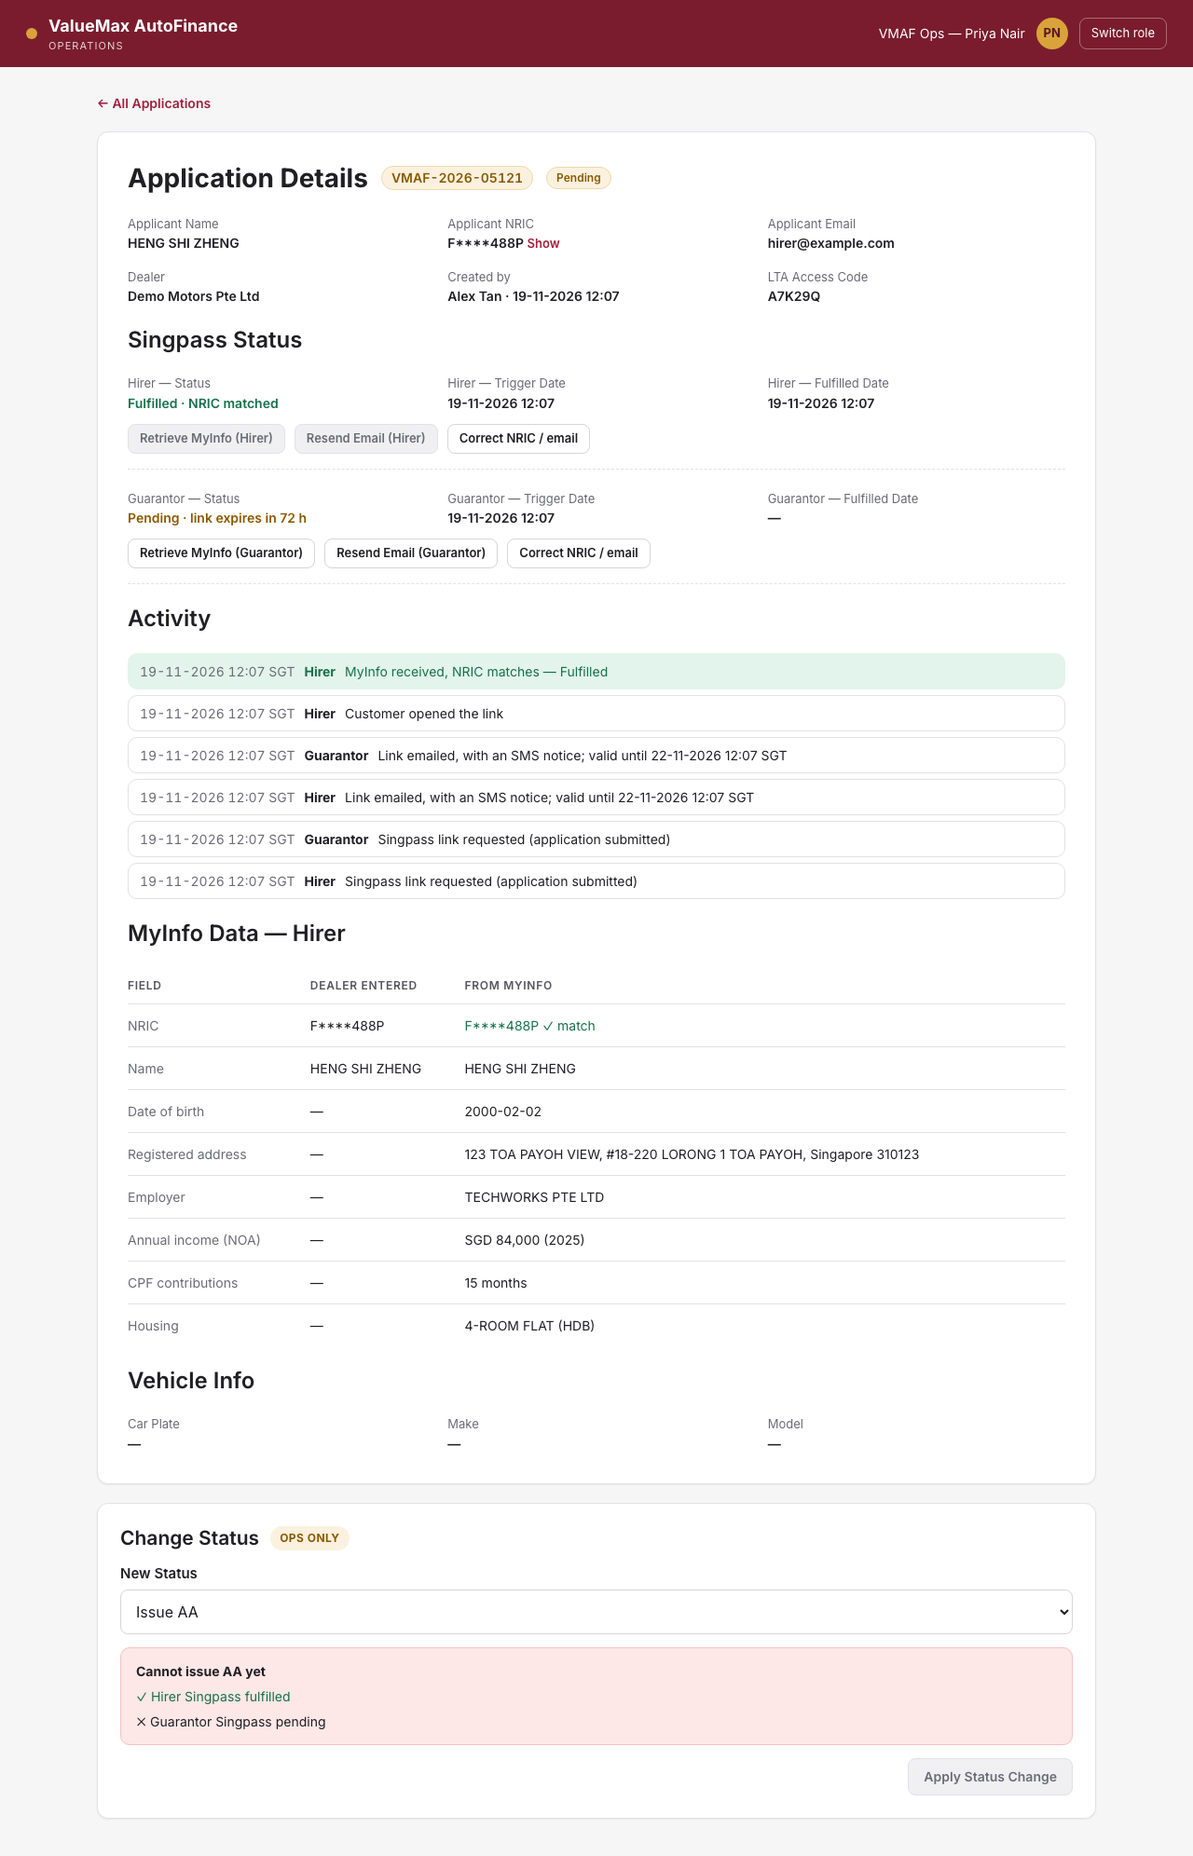
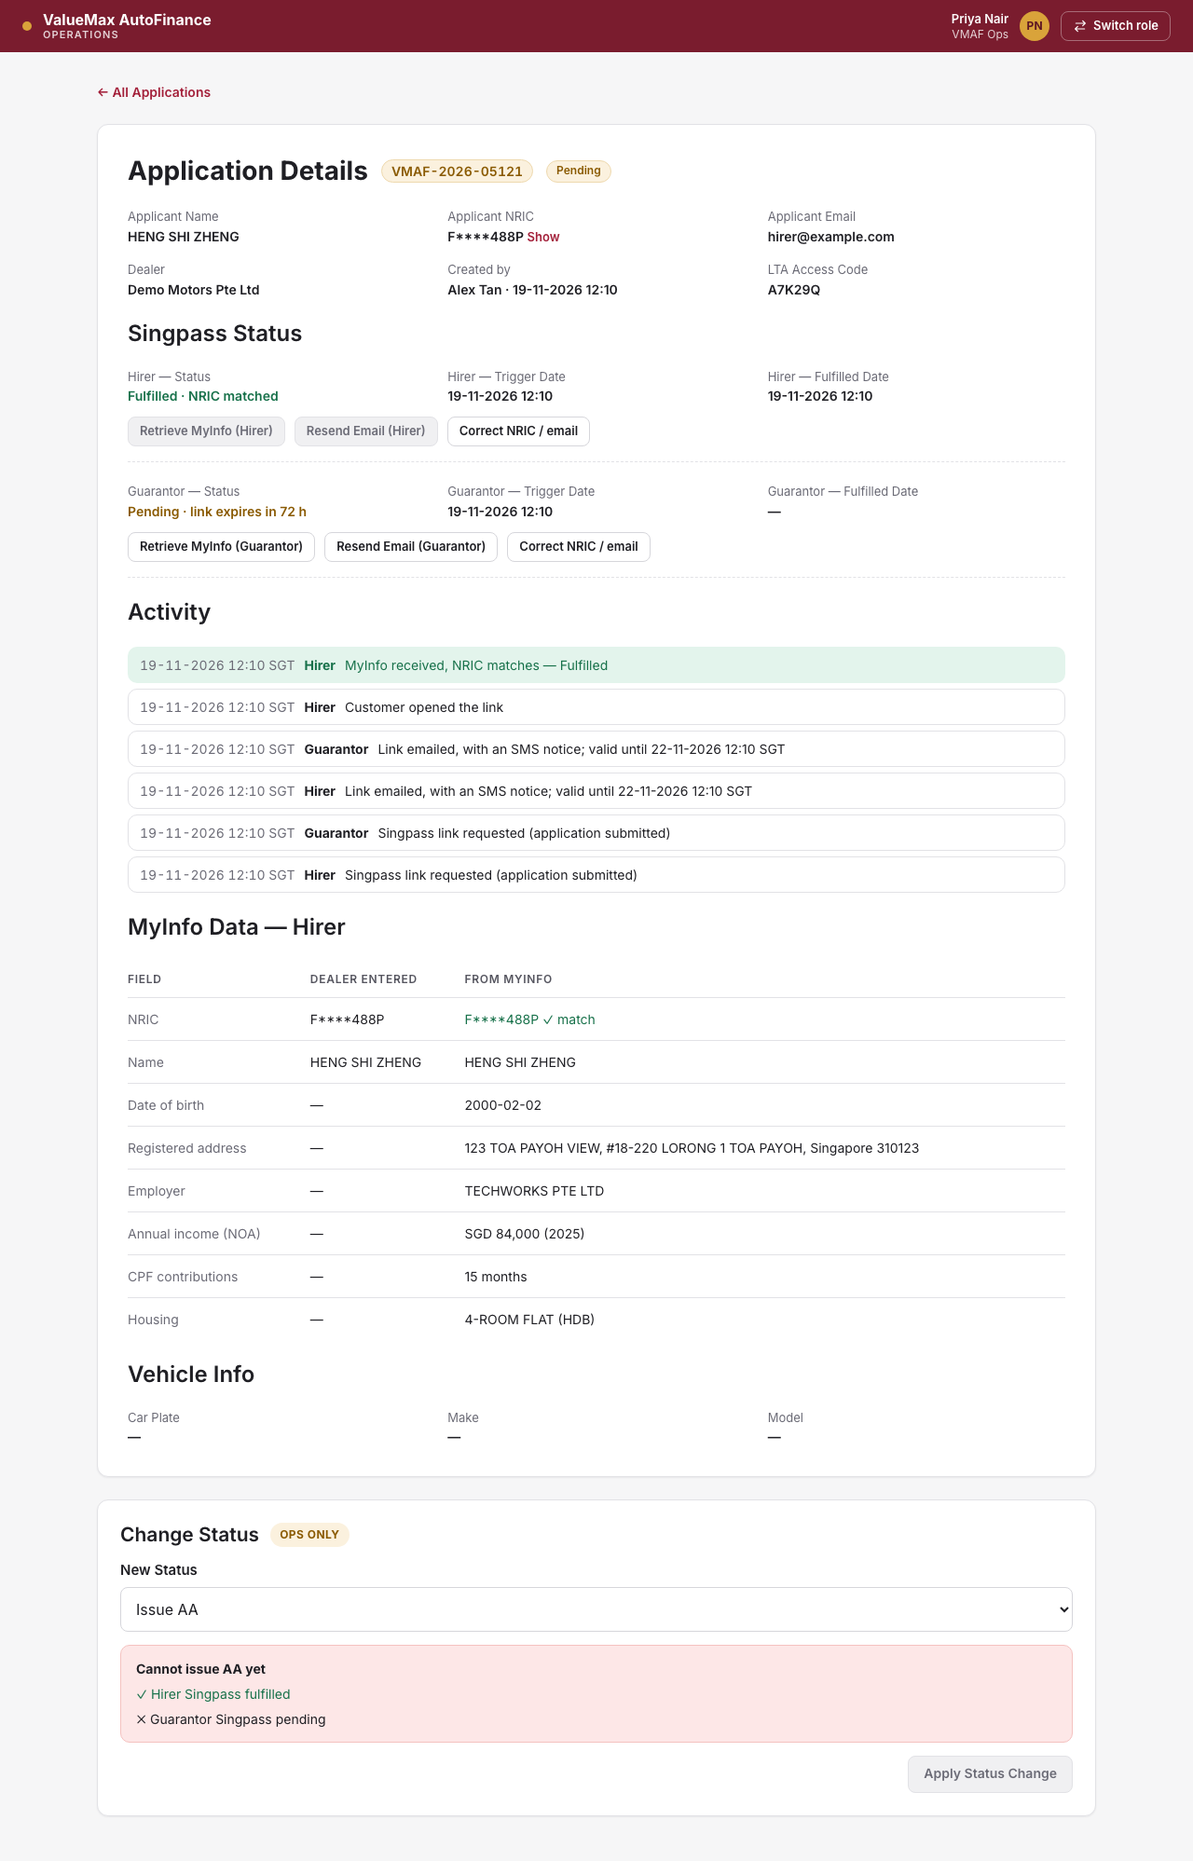
ui: shell — compact header, dealer navigation, demo clock bar, toast, sign-in
- header: brand left; user name + organisation, avatar and an icon
  'Switch role' button right; white focus ring on the burgundy bar
- dealer sidebar: inset items with a clear active state (aria-current);
  below 1024 px it becomes a tab bar under the header instead of disappearing
- 'Demo time' bar: calm amber with a clock icon, compact
- toast: top right just below the header / demo bar (never over the form's
  buttons), white card with an icon per kind (ok, info, error)
- sign-in: clean role cards with a chevron

diff --git a/public/styles.css b/public/styles.css
@@ -318,30 +318,77 @@ code { font-family: var(--font-mono); font-size: .92em; }
 @keyframes flash { 0% { background-color: var(--flash); } 100% { background-color: transparent; } }
 
 /* ======================================================================================
-   9. Shell (header, sidebar, page frame)
+   9. Shell (header, dealer navigation, page frame, demo clock banner, toast)
    ====================================================================================== */
-.hdr { display: flex; flex-wrap: wrap; justify-content: space-between; align-items: center; gap: var(--space-3); padding: 14px 28px; background: var(--brand-header); color: var(--on-brand); }
+.hdr { position: relative; z-index: 30; display: flex; align-items: center; justify-content: space-between; gap: var(--space-4); min-height: 56px; padding: var(--space-2) var(--space-5); background: var(--brand-header); color: var(--on-brand); }
 .hdr :focus-visible { outline-color: var(--on-brand); }
-.brand { display: flex; align-items: center; gap: var(--space-3); color: inherit; text-decoration: none; }
+.brand { display: flex; align-items: center; gap: var(--space-3); min-width: 0; color: inherit; text-decoration: none; border-radius: var(--radius-sm); }
 .brand:hover { color: inherit; }
-.dot { width: 12px; height: 12px; border-radius: 50%; background: var(--gold); flex: none; }
-.brand b { font-size: var(--fs-lg); display: block; }
-.brand small { font-size: 11px; letter-spacing: .1em; opacity: .8; display: block; }
-.who { display: flex; align-items: center; gap: var(--space-3); font-size: var(--fs-base); }
-.avatar { width: 34px; height: 34px; border-radius: 50%; background: var(--gold); color: var(--on-gold); display: grid; place-items: center; font-weight: 700; font-size: var(--fs-sm); flex: none; }
-.hdr-btn { background: transparent; border: 1px solid var(--on-dark-line); color: var(--on-brand); border-radius: var(--radius-sm); padding: 6px 12px; cursor: pointer; font-size: var(--fs-sm); }
+.brand-text { display: flex; flex-direction: column; line-height: 1.2; }
+.brand b { font-size: var(--fs-md); font-weight: 700; white-space: nowrap; }
+.brand small { font-size: 11px; font-weight: 600; letter-spacing: .1em; color: var(--on-dark-muted); white-space: nowrap; }
+.dot { width: 10px; height: 10px; border-radius: 50%; background: var(--gold); flex: none; }
+.who { display: flex; align-items: center; gap: var(--space-3); }
+.who-text { display: flex; flex-direction: column; align-items: flex-end; line-height: 1.25; }
+.who-text b { font-size: var(--fs-sm); font-weight: 600; white-space: nowrap; }
+.who-text small { font-size: var(--fs-xs); color: var(--on-dark-muted); white-space: nowrap; }
+.avatar { width: 32px; height: 32px; border-radius: 50%; background: var(--gold); color: var(--on-gold); display: grid; place-items: center; font-weight: 700; font-size: var(--fs-xs); flex: none; }
+.hdr-btn { display: inline-flex; align-items: center; gap: 6px; min-height: var(--control-h-sm); padding: 0 var(--space-3); border: 1px solid var(--on-dark-line); border-radius: var(--radius-sm); background: transparent; color: var(--on-brand); font-size: var(--fs-sm); font-weight: 600; white-space: nowrap; cursor: pointer; transition: background-color var(--dur-fast) var(--ease); }
 .hdr-btn:hover { background: var(--on-dark-hover); }
+@media (pointer: coarse) { .hdr-btn { min-height: var(--touch); } }
 
-.layout { display: flex; flex-wrap: wrap; }
-.side { flex: 1 1 220px; max-width: 260px; background: var(--surface); border-right: 1px solid var(--border); padding: var(--space-5) 0; display: flex; flex-direction: column; gap: var(--space-1); font-size: var(--fs-base); min-height: calc(100vh - 66px); }
-.side .cap { padding: 0 var(--space-5) 6px; font-size: 11px; letter-spacing: .1em; color: var(--text-muted); }
-.side .cap + .cap, .side .cap.mt { padding-top: var(--space-4); }
-.side a, .side span.item { padding: 10px var(--space-5); color: var(--text); text-decoration: none; }
-.side a.on { padding-left: 21px; background: var(--accent-subtle); color: var(--accent); font-weight: 600; border-left: 3px solid var(--accent); }
-.side a:hover { background: var(--bg); }
-.main { flex: 999 1 560px; min-width: 0; padding: 28px 36px 40px; display: flex; flex-direction: column; gap: 22px; }
-.wrap { max-width: 1240px; margin: 0 auto; padding: 28px var(--space-5) 40px; display: flex; flex-direction: column; gap: var(--space-4); }
-.wrap.narrow { max-width: 1120px; gap: 20px; }
+/* dealer: sidebar on desktop, tab bar under the header below 1024 px */
+.layout { display: grid; grid-template-columns: 232px minmax(0, 1fr); min-height: calc(100vh - 56px); }
+.side { background: var(--surface); border-right: 1px solid var(--border); padding: var(--space-4) var(--space-3); display: flex; flex-direction: column; gap: 2px; font-size: var(--fs-base); }
+.side .cap { padding: var(--space-4) var(--space-3) var(--space-1); font-size: 11px; font-weight: 600; letter-spacing: .08em; color: var(--text-muted); }
+.side .cap:first-child { padding-top: var(--space-1); }
+.side a, .side .item { display: flex; align-items: center; min-height: 36px; padding: 0 var(--space-3); border-radius: var(--radius-sm); color: var(--text-2); font-weight: 500; text-decoration: none; transition: background-color var(--dur-fast) var(--ease), color var(--dur-fast) var(--ease); }
+.side a:hover { background: var(--surface-3); color: var(--text); }
+.side a.on { background: var(--accent-subtle); color: var(--accent); font-weight: 600; }
+.side .item.off { color: var(--text-muted); cursor: default; }
+.main { min-width: 0; padding: var(--space-6) var(--space-6) var(--space-7); display: flex; flex-direction: column; gap: var(--space-5); }
+.main > * { width: 100%; max-width: 1040px; margin-inline: auto; }
+.wrap { max-width: 1240px; margin: 0 auto; padding: var(--space-6) var(--space-5) var(--space-7); display: flex; flex-direction: column; gap: var(--space-5); }
+.wrap.narrow { max-width: 1120px; }
+
+@media (max-width: 1023px) {
+  .layout { display: block; min-height: 0; }
+  .side { flex-direction: row; gap: var(--space-1); padding: 0 var(--space-4); border-right: 0; border-bottom: 1px solid var(--border); overflow-x: auto; }
+  .side .cap, .side .item.off { display: none; }
+  .side a { min-height: var(--control-h-lg); border-radius: 0; padding: 0 var(--space-3); border-bottom: 2px solid transparent; }
+  .side a:hover { background: transparent; }
+  .side a.on { background: transparent; border-bottom-color: var(--accent); }
+  .main { padding: var(--space-5) var(--space-5) var(--space-6); }
+}
+@media (max-width: 640px) {
+  .hdr { padding: var(--space-2) var(--space-4); }
+  .who-text { display: none; }
+  .main, .wrap { padding: var(--space-4) var(--space-4) var(--space-6); }
+}
+
+/* demo clock moved: a calm amber bar, sticky above the header */
+.demo-time { position: sticky; top: 0; z-index: 40; display: flex; flex-wrap: wrap; align-items: center; gap: var(--space-1) var(--space-3); min-height: 44px; padding: 6px var(--space-5); background: var(--warning-bg); border-bottom: 1px solid var(--warning-line); color: var(--warning-fg); font-size: var(--fs-sm); }
+.demo-time b { font-weight: 700; white-space: nowrap; }
+.demo-time .btn { margin-left: auto; }
+
+/* toast: top right, just below the header (top is set by toast() in app.js) */
+#toast { position: fixed; top: 68px; right: var(--space-5); z-index: 60; display: flex; align-items: flex-start; gap: var(--space-3); max-width: min(400px, calc(100vw - 32px)); padding: var(--space-3) var(--space-4); background: var(--surface); color: var(--text); border: 1px solid var(--border); border-radius: var(--radius-sm); box-shadow: var(--shadow-sm); font-size: var(--fs-base); line-height: 1.45; opacity: 0; transform: translateY(-4px); pointer-events: none; transition: opacity var(--dur) var(--ease), transform var(--dur) var(--ease); }
+#toast.show { opacity: 1; transform: none; }
+#toast .ic { margin-top: 0; }
+#toast.ok .ic { color: var(--success-fg); }
+#toast.info .ic { color: var(--info-fg); }
+#toast.err { background: var(--danger-bg); border-color: var(--danger-line); color: var(--danger-fg); }
+@media (max-width: 640px) { #toast { left: var(--space-3); right: var(--space-3); max-width: none; } }
+
+/* sign-in (role picker) */
+.signin { max-width: 520px; margin: var(--space-8) auto; padding: 0 var(--space-4); display: flex; flex-direction: column; gap: var(--space-5); }
+.rolecard { display: flex; align-items: center; gap: var(--space-4); min-height: 76px; padding: var(--space-4) var(--space-5); border: 1px solid var(--border); border-radius: var(--radius-lg); background: var(--surface); box-shadow: var(--shadow-sm); cursor: pointer; text-align: left; width: 100%; color: var(--text); transition: border-color var(--dur-fast) var(--ease), background-color var(--dur-fast) var(--ease); }
+.rolecard:hover { border-color: var(--border-strong); background: var(--surface-2); }
+.rolecard .avatar { width: 44px; height: 44px; font-size: var(--fs-sm); }
+.rolecard-text { flex: 1; min-width: 0; display: flex; flex-direction: column; gap: 2px; }
+.rolecard b { font-size: var(--fs-md); font-weight: 600; }
+.rolecard > .ic { color: var(--text-muted); transition: color var(--dur-fast) var(--ease); }
+.rolecard:hover > .ic { color: var(--accent); }
 
 /* ======================================================================================
    10. Screens (restyled screen by screen in the following steps)
@@ -401,13 +448,6 @@ dl.kv dd { margin: 0; font-size: var(--fs-base); font-weight: 600; overflow-wrap
 .cond.ok { background: var(--success-bg); border-color: var(--success-line); }
 .ops-tag { padding: var(--space-1) 10px; border-radius: var(--radius-full); background: var(--warning-bg); color: var(--warning-fg); font-weight: 700; font-size: var(--fs-xs); letter-spacing: .04em; }
 
-/* sign-in */
-.signin { max-width: 560px; margin: var(--space-8) auto; padding: 0 var(--space-4); display: flex; flex-direction: column; gap: 18px; }
-.rolecard { display: flex; align-items: center; gap: var(--space-4); padding: 20px; border: 1px solid var(--border); border-radius: var(--radius-lg); background: var(--surface); cursor: pointer; text-align: left; width: 100%; }
-.rolecard:hover { border-color: var(--accent); background: var(--accent-subtle); }
-.rolecard .avatar { width: 46px; height: 46px; font-size: var(--fs-md); }
-.rolecard b { display: block; font-size: 17px; }
-
 /* customer (phone) */
 .phone { max-width: 480px; margin: 0 auto; min-height: 100vh; background: var(--surface); display: flex; flex-direction: column; font-size: var(--fs-md); }
 .phone.grey { background: var(--bg); }
@@ -457,9 +497,6 @@ dl.kv dd { margin: 0; font-size: var(--fs-base); font-weight: 600; overflow-wrap
 /* dialogs, demo clock banner, activity log, link history */
 .modal-bg { position: fixed; inset: 0; background: var(--scrim); display: grid; place-items: center; padding: var(--space-4); z-index: 50; }
 .modal { width: 100%; max-width: 520px; }
-.demo-time { display: flex; flex-wrap: wrap; align-items: center; gap: var(--space-3); padding: var(--space-2) 28px; background: var(--warning-bg); border-bottom: 1px solid var(--warning-line); color: var(--warning-fg); font-size: var(--fs-base); position: sticky; top: 0; z-index: 40; }
-.demo-time b { font-size: 15px; }
-.demo-time .btn { margin-left: auto; }
 .activity { display: flex; flex-direction: column; gap: 6px; }
 .act { display: flex; flex-wrap: wrap; gap: var(--space-1) 10px; padding: var(--space-2) var(--space-3); border-radius: 10px; font-size: var(--fs-base); background: var(--surface); border: 1px solid var(--border); }
 .act .when { color: var(--text-muted); font-variant-numeric: tabular-nums; }
@@ -469,15 +506,7 @@ dl.kv dd { margin: 0; font-size: var(--fs-base); font-weight: 600; overflow-wrap
 .linkhist .old { color: var(--text-muted); }
 .linkhist .old b { font-weight: 600; }
 
-/* toast */
-#toast { position: fixed; right: var(--space-5); bottom: var(--space-5); max-width: min(420px, calc(100vw - 32px)); background: var(--text); color: var(--on-brand); padding: var(--space-3) 18px; border-radius: 10px; font-size: var(--fs-base); opacity: 0; pointer-events: none; transition: opacity var(--dur) var(--ease); z-index: 60; }
-#toast.show { opacity: 1; }
-#toast.err { background: var(--danger-fg); }
-
 @media (max-width: 860px) {
-  .side { display: none; }
-  .main, .wrap { padding: 20px var(--space-4) var(--space-6); }
-  .hdr { padding: var(--space-3) var(--space-4); }
   .grid3, dl.kv { grid-template-columns: minmax(0, 1fr); }
   .grid2 { grid-template-columns: minmax(0, 1fr); }
   .span2 { grid-column: auto; }

diff --git a/public/app.js b/public/app.js
@@ -27,9 +27,14 @@ async function api(method, path, body) {
 }
 
 let toastTimer;
-function toast(msg, isErr = false) {
-  $toast.textContent = msg;
-  $toast.className = `show${isErr ? " err" : ""}`;
+// kind: true or "err" (error), "info", or "ok" (default). Shown top right, just below the header / demo banner, so it
+// never covers the form's own buttons.
+function toast(msg, kind = "ok") {
+  const type = kind === true || kind === "err" ? "err" : kind === "info" ? "info" : "ok";
+  const edge = Math.max(0, ...[".hdr", ".demo-time", ".phone-hdr", ".simbar"].map((sel) => document.querySelector(sel)?.getBoundingClientRect().bottom ?? 0));
+  $toast.style.top = `${Math.round(edge) + 12}px`;
+  $toast.innerHTML = `${icon(type === "err" ? "alert-circle" : type === "info" ? "info" : "check-circle", "lg")}<span>${esc(msg)}</span>`;
+  $toast.className = `show ${type}`;
   clearTimeout(toastTimer);
   toastTimer = setTimeout(() => ($toast.className = ""), 3200);
 }
@@ -227,7 +232,7 @@ async function render() {
       state.user = null;
       return signIn();
     }
-    $app.innerHTML = `${header()}<div class="wrap"><div class="note-red">${esc(e.message)}</div><a class="btn" href="/" data-go>Home</a></div>`;
+    $app.innerHTML = `${header()}<main class="wrap"><div class="note-red" role="alert">${icon("alert-circle")}<span>${esc(e.message)}</span></div><div><a class="btn" href="/" data-go>Home</a></div></main>`;
   }
 }
 
@@ -236,30 +241,30 @@ function demoBanner() {
   const off = state.demo?.offsetMs ?? 0;
   if (!state.user || off <= 0) return "";
   const h = Math.round(off / 3_600_000);
-  return `<div class="demo-time" role="status"><b>Demo time: +${h} h</b><span>The clock is moved forward for the demo (now ${fmt(state.demo.now)} SGT).</span><button class="btn sm" id="realtime" type="button">Back to real time</button></div>`;
+  return `<div class="demo-time" role="status">${icon("clock")}<b>Demo time: +${h} h</b><span>The clock is moved forward for the demo (now <span class="num">${fmt(state.demo.now)}</span> SGT).</span><button class="btn sm" id="realtime" type="button">Back to real time</button></div>`;
 }
 
 function header() {
   const u = state.user;
   const area = u?.kind === "ops" ? "OPERATIONS" : "DEALER PORTAL";
   return `${demoBanner()}<header class="hdr">
-    <a class="brand" href="/" data-go><span class="dot"></span><div><b>ValueMax AutoFinance</b><small>${area}</small></div></a>
-    <div class="who">${u ? `${esc(u.org)} — ${esc(u.name)}<span class="avatar">${esc(u.initials)}</span>
-      <button class="hdr-btn" id="signout" type="button">Switch role</button>` : ""}</div>
+    <a class="brand" href="/" data-go><span class="dot" aria-hidden="true"></span><span class="brand-text"><b>ValueMax AutoFinance</b><small>${area}</small></span></a>
+    ${u ? `<div class="who"><span class="who-text"><b>${esc(u.name)}</b><small>${esc(u.org)}</small></span><span class="avatar" aria-hidden="true">${esc(u.initials)}</span>
+      <button class="hdr-btn" id="signout" type="button">${icon("switch")}<span>Switch role</span></button></div>` : ""}
   </header>`;
 }
 
 function dealerShell(active, inner) {
-  const item = (href, label, key) => `<a href="${href}" data-go class="${active === key ? "on" : ""}">${label}</a>`;
+  const item = (href, label, key) => `<a href="${href}" data-go${active === key ? ' class="on" aria-current="page"' : ""}>${label}</a>`;
   return `${header()}<div class="layout">
     <nav class="side" aria-label="Dealer menu">
       <span class="cap">FINANCE</span>
       ${item("/dealer/applications", "Home", "list")}
       ${item("/dealer/apply", "Application", "apply")}
-      <span class="item muted">Account</span>
-      <span class="cap mt">SUPPORT</span>
-      <span class="item muted">Document Centre</span>
-      <span class="item muted">Contact Us</span>
+      <span class="item off" aria-disabled="true">Account</span>
+      <span class="cap">SUPPORT</span>
+      <span class="item off" aria-disabled="true">Document Centre</span>
+      <span class="item off" aria-disabled="true">Contact Us</span>
     </nav>
     <main class="main">${inner}</main>
   </div>`;
@@ -280,13 +285,12 @@ function bindCommon() {
 async function signIn() {
   if (location.pathname !== "/login" && location.pathname !== "/demo") history.replaceState({}, "", "/login");
   const users = await api("GET", "/api/users");
-  $app.innerHTML = `${header()}<div class="signin">
-    <h1 style="font-size:26px;color:var(--red-deep)">Sign in to the demo</h1>
-    <p class="muted" style="margin:0">Pick a role. No password in this demo.</p>
-    ${users.map((u) => `<button class="rolecard" data-user="${u.id}" type="button"><span class="avatar">${esc(u.initials)}</span>
-      <span><b>${esc(u.name)} — ${esc(u.org)}</b><span class="muted small">${u.kind === "ops" ? "VMAF Ops · all applications, IPA / AA" : "Dealer user · Quick Apply, own applications"}</span></span></button>`).join("")}
-    <p class="small muted">Customers do not sign in: they open the link from their email on their phone.</p>
-  </div>`;
+  $app.innerHTML = `${header()}<main class="signin">
+    <div><h1 class="page-title">Sign in to the demo</h1><p class="page-sub">Pick a role. No password in this demo.</p></div>
+    <div class="stack-sm">${users.map((u) => `<button class="rolecard" data-user="${u.id}" type="button"><span class="avatar" aria-hidden="true">${esc(u.initials)}</span>
+      <span class="rolecard-text"><b>${esc(u.name)} — ${esc(u.org)}</b><span class="muted small">${u.kind === "ops" ? "VMAF Ops · all applications, IPA / AA" : "Dealer user · Quick Apply, own applications"}</span></span>${icon("chevron-right", "lg")}</button>`).join("")}</div>
+    <p class="small muted">${icon("info")} Customers do not sign in: they open the link from their email on their phone.</p>
+  </main>`;
   $app.querySelectorAll("[data-user]").forEach((b) =>
     b.addEventListener("click", async () => {
       const { user } = await api("POST", "/api/session", { userId: b.dataset.user });
@@ -406,7 +410,7 @@ function dealerApply() {
     d.ltaCode = "A7K29Q";
     saveDraft();
     dealerApply();
-    toast("Sample filled — type the email address(es) that should receive the Singpass link");
+    toast("Sample filled — type the email address(es) that should receive the Singpass link", "info");
   });
   document.getElementById("clear").addEventListener("click", () => {
     state.draft = emptyDraft();
@@ -802,7 +806,7 @@ async function opsDetail(ref) {
       b.disabled = true;
       try {
         const r = await api("POST", `/api/applications/${ref}/parties/${b.dataset.retrieve}/retrieve`);
-        toast({ fulfilled: "MyInfo retrieved — NRIC matched", mismatch: "MyInfo retrieved — NRIC mismatch", expired: "The link has expired", sent: "Link sent", unchanged: "No MyInfo data yet — the customer has not shared it" }[r.outcome] || r.outcome);
+        toast({ fulfilled: "MyInfo retrieved — NRIC matched", mismatch: "MyInfo retrieved — NRIC mismatch", expired: "The link has expired", sent: "Link sent", unchanged: "No MyInfo data yet — the customer has not shared it" }[r.outcome] || r.outcome, r.outcome === "fulfilled" ? "ok" : r.outcome === "mismatch" || r.outcome === "expired" ? "err" : "info");
       } catch (e) { toast(e.message, true); }
       b.disabled = false;
     }));
